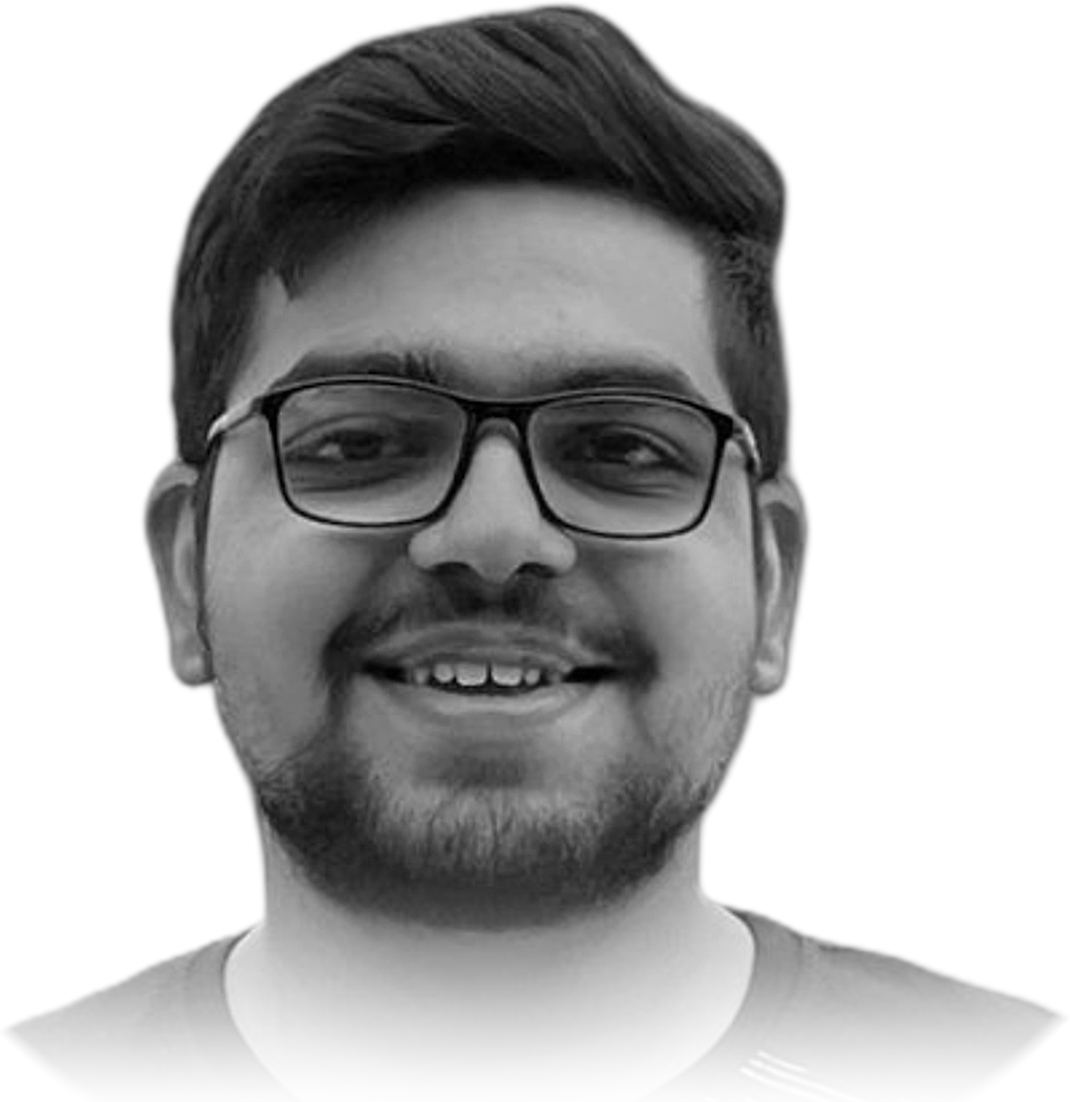
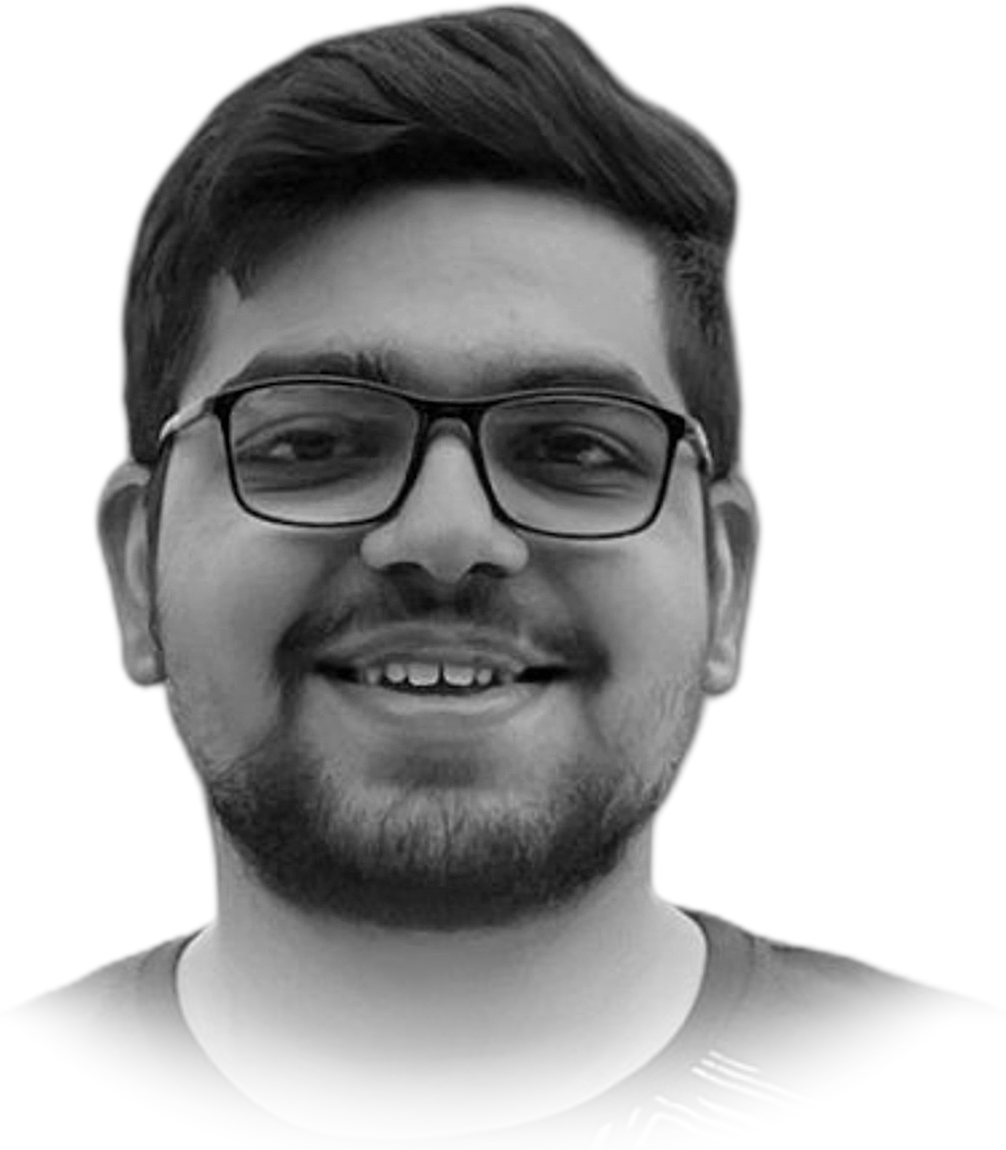
Hero portrait: smaller, shoulders dissolve without an arc
The shoulders now fade out with distance from the centre, before the
original photo's circular edge, so no curve shows at the bottom. The
desktop portrait is also a little smaller (78% of the tile height).

Claude-Session: https://claude.ai/code/session_01AwDuWebBxMtRYFEmn96C7U

diff --git a/src/data/profile.ts b/src/data/profile.ts
@@ -42,7 +42,7 @@ export const profile = {
   portrait: {
     name: "portrait-cutout",
     alt: "Portrait of Vansh Agicha",
-    ratio: "1070 / 1102",
+    ratio: "1006 / 1150",
   },
 };
 

diff --git a/src/sections/Hero.module.css b/src/sections/Hero.module.css
@@ -103,7 +103,7 @@
     bottom: 0;
     right: var(--space-l);
     width: auto;
-    height: 92%;
+    height: 78%;
   }
 
   .picture,
